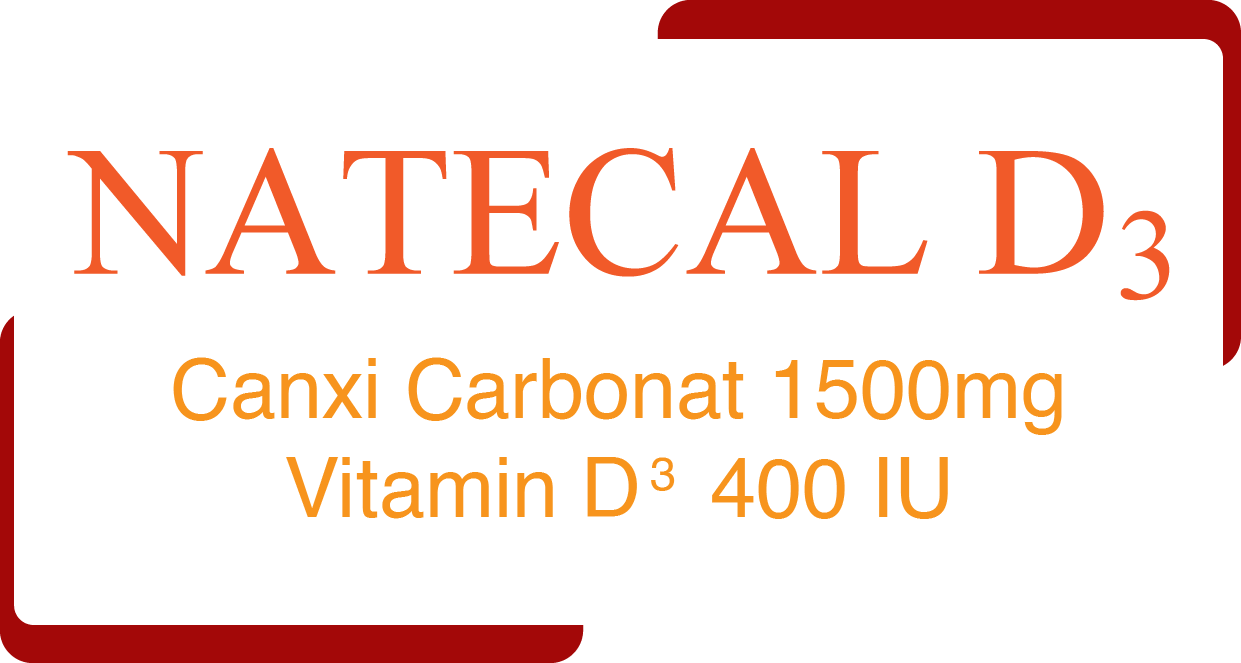
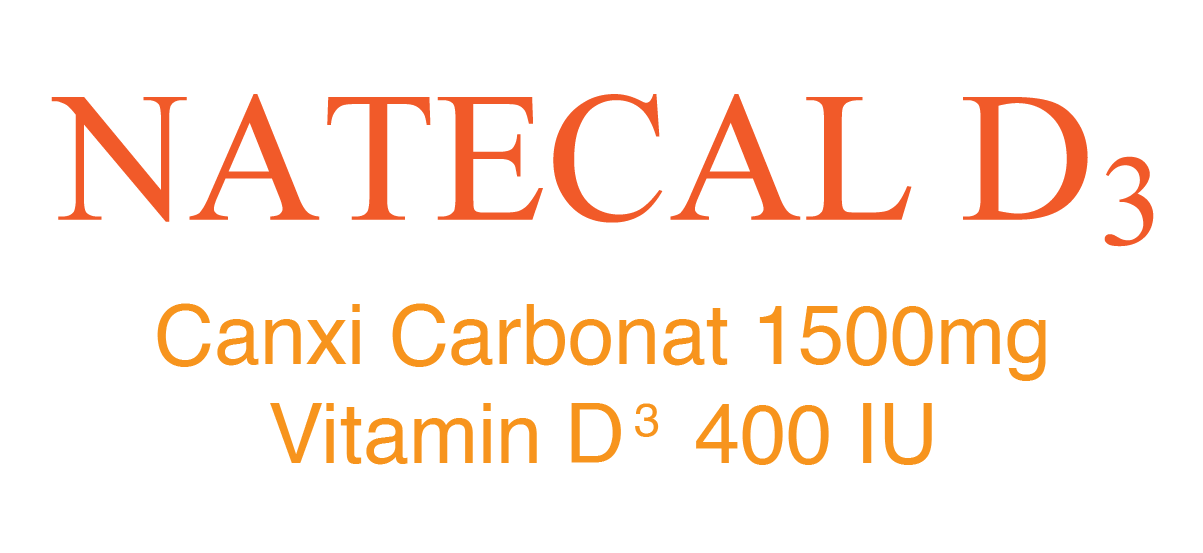
align

diff --git a/style.css b/style.css
@@ -90,8 +90,8 @@ body {
   position: absolute;
   left: 6%;
   width: 88%;
-  bottom: 22%;   /* PLACEHOLDER - chỉnh lại cho khớp ảnh nền thật */
-  height: 9%; /* PLACEHOLDER */
+  bottom: 21%;   /* PLACEHOLDER - chỉnh lại cho khớp ảnh nền thật */
+  height: 15%; /* PLACEHOLDER */
   display: flex;
   align-items: center;
   justify-content: center;